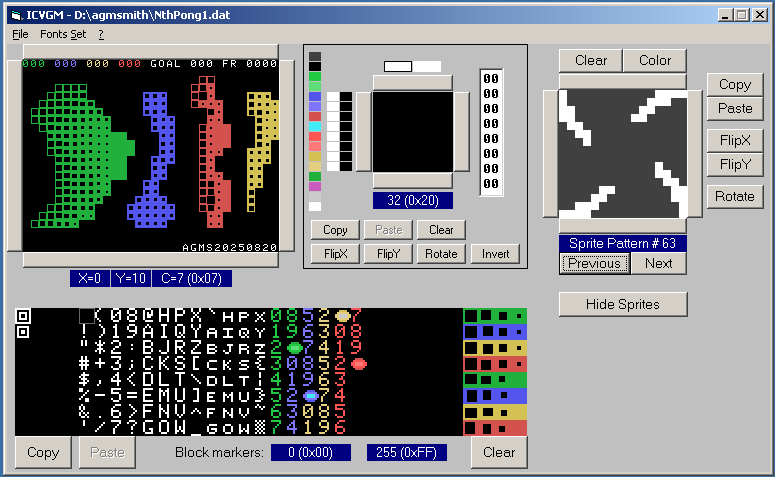
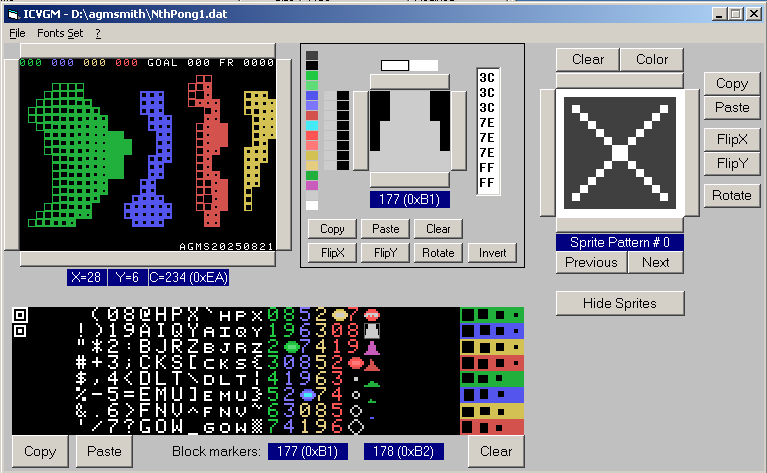
Added character animations for Normal, Stop, Wide.  Also slow down tile anims.

Changed region(s): [[0.0, 0.0, 1.0, 1.0]]

diff --git a/SourceCode/Common/tiles.c b/SourceCode/Common/tiles.c
@@ -44,11 +44,11 @@ const char *g_TileAnimData[OWNER_MAX] =
   "\xE1\xE5\xE9\xED\xF1\xF5\xF9\xFD", /* OWNER_PLAYER_2 */
   "\xE2\xE6\xEA\xEE\xF2\xF6\xFA\xFE", /* OWNER_PLAYER_3 */
   "\xE3\xE7\xEB\xEF\xF3\xF7\xFB\xFF", /* OWNER_PLAYER_4 */
-  "NNNorm", /* OWNER_PUP_NORMAL */
-  "SSStop", /* OWNER_PUP_STOP */
+  "\xB1\xB2\xB3\xB4\xB5\xB6", /* OWNER_PUP_NORMAL */
+  "\xB0", /* OWNER_PUP_STOP */
   "FFFast", /* OWNER_PUP_FAST */
   "UUUp", /* OWNER_PUP_FLY */
-  "WWWider", /* OWNER_PUP_WIDER */
+  "\xAC\xAD\xAE\xAF", /* OWNER_PUP_WIDER */
 #else /* Curses just uses plain characters, no special font. */
   " ", /* OWNER_EMPTY */
   "1", /* OWNER_PLAYER_1 */
@@ -130,12 +130,13 @@ uint8_t g_cache_dirty_screen_tiles_index = 0;
  */
 static void DumpOneTileToTerminal(tile_pointer pTile)
 {
-  printf("(%d,%d) Owner=%d (%s) Anim=%d Disp=%d DirtS=%d, DirtR=%d, VDP=%d\n",
+  printf("(%d,%d) Owner=%d (%s) Anim=%d Tick=%d Disp=%d DirtS=%d, DirtR=%d, VDP=%d\n",
     (int) pTile->pixel_center_x,
     (int) pTile->pixel_center_y,
     (int) pTile->owner,
     g_TileOwnerNames[pTile->owner],
     (int) pTile->animationIndex,
+    (int) pTile->animDelayCount,
     (int) pTile->displayedChar,
     (int) pTile->dirty_screen,
     (int) pTile->dirty_remote,
@@ -213,6 +214,7 @@ bool InitTileArray(void)
       pTile->pixel_center_y = y;
       pTile->owner = OWNER_EMPTY;
       pTile->animationIndex = 0;
+      pTile->animDelayCount = 0;
       pTile->displayedChar = 0;
       pTile->dirty_screen = true;
       pTile->dirty_remote = true;
@@ -386,6 +388,7 @@ tile_owner SetTileOwner(tile_pointer pTile, tile_owner newOwner)
 
   pTile->owner = newOwner;
   pTile->animationIndex = 0;
+  pTile->animDelayCount = MAX_ANIM_DELAY_COUNT;
   pTile->age = 0; /* Freshly taken over ownership of tile, reset age. */
   RequestTileRedraw(pTile);
 
@@ -467,16 +470,26 @@ static void UpdateOneTileAnimation(tile_pointer pTile)
     pTile->animated = false;
     newChar = pAnimString[animIndex];
   }
-  else
+  else /* Advance to next character of animation, or delay a bit. */
   {
-    animIndex = pTile->animationIndex + 1;
-    newChar = pAnimString[animIndex];
-    if (newChar == 0) /* End of animation string, go back to start. */
+    if (pTile->animDelayCount)
     {
-      newChar = pAnimString[0];
-      if (animIndex <= 1) /* Only one frame of animation, not really animated. */
-        pTile->animated = false;
-      animIndex = 0;
+      pTile->animDelayCount = pTile->animDelayCount - 1;
+      animIndex = pTile->animationIndex;
+      newChar = pAnimString[animIndex];
+    }
+    else /* Delay per frame has finished. */
+    {
+      pTile->animDelayCount = MAX_ANIM_DELAY_COUNT;
+      animIndex = pTile->animationIndex + 1;
+      newChar = pAnimString[animIndex];
+      if (newChar == 0) /* End of animation string, go back to start. */
+      {
+        newChar = pAnimString[0];
+        if (animIndex <= 1) /* Only one frame of animation, not really animated. */
+          pTile->animated = false;
+        animIndex = 0;
+      }
     }
   }
   pTile->animationIndex = animIndex;

diff --git a/SourceCode/Common/tiles.h b/SourceCode/Common/tiles.h
@@ -38,6 +38,9 @@
    16x16 box, the offset is 8 pixels in both X and Y. */
 #define PLAYER_SCREEN_TO_SPRITE_OFFSET 8
 
+/* The maximum value for animDelayCount, which has a limited number of bits. */
+#define MAX_ANIM_DELAY_COUNT 2
+
 /* The various things that a tile can be.  Empty space, or coloured to show
    the player who owns it, or a power up.
 */
@@ -125,6 +128,11 @@ typedef struct tile_struct {
      frame.  The animation is related to the tile's owner, so if the owner
      changes, this needs updating.  Tiles with a one frame animation get this
      set to FALSE after the first update. */
+
+  unsigned char animDelayCount : 2;
+    /* Counts down to zero, then changes to the next character of the
+       animation.  Needed since animations are too fast otherwise.  Also see
+       MAX_ANIM_DELAY_COUNT. */
 
   unsigned char age : 3;
   /* Age of the tile owned by the player.  0 means new, 7 is the oldest (has
